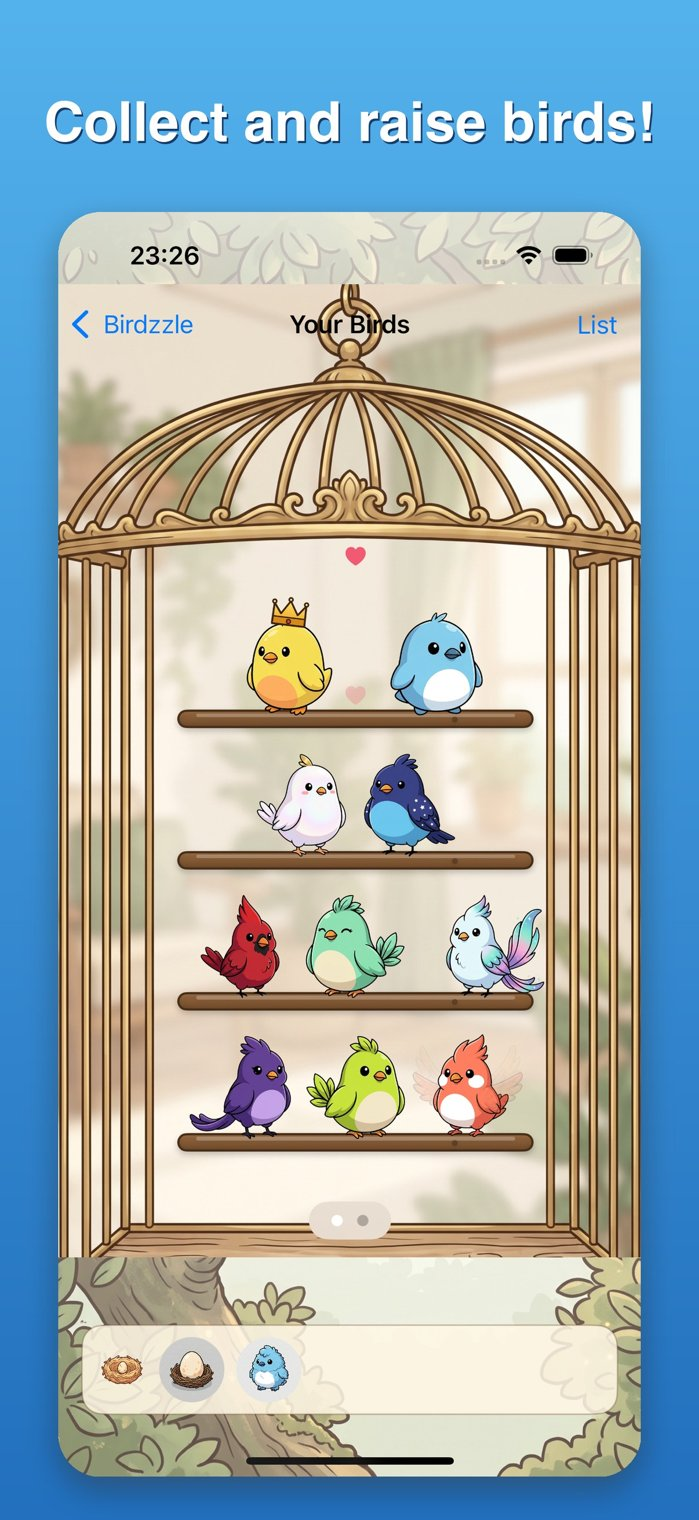
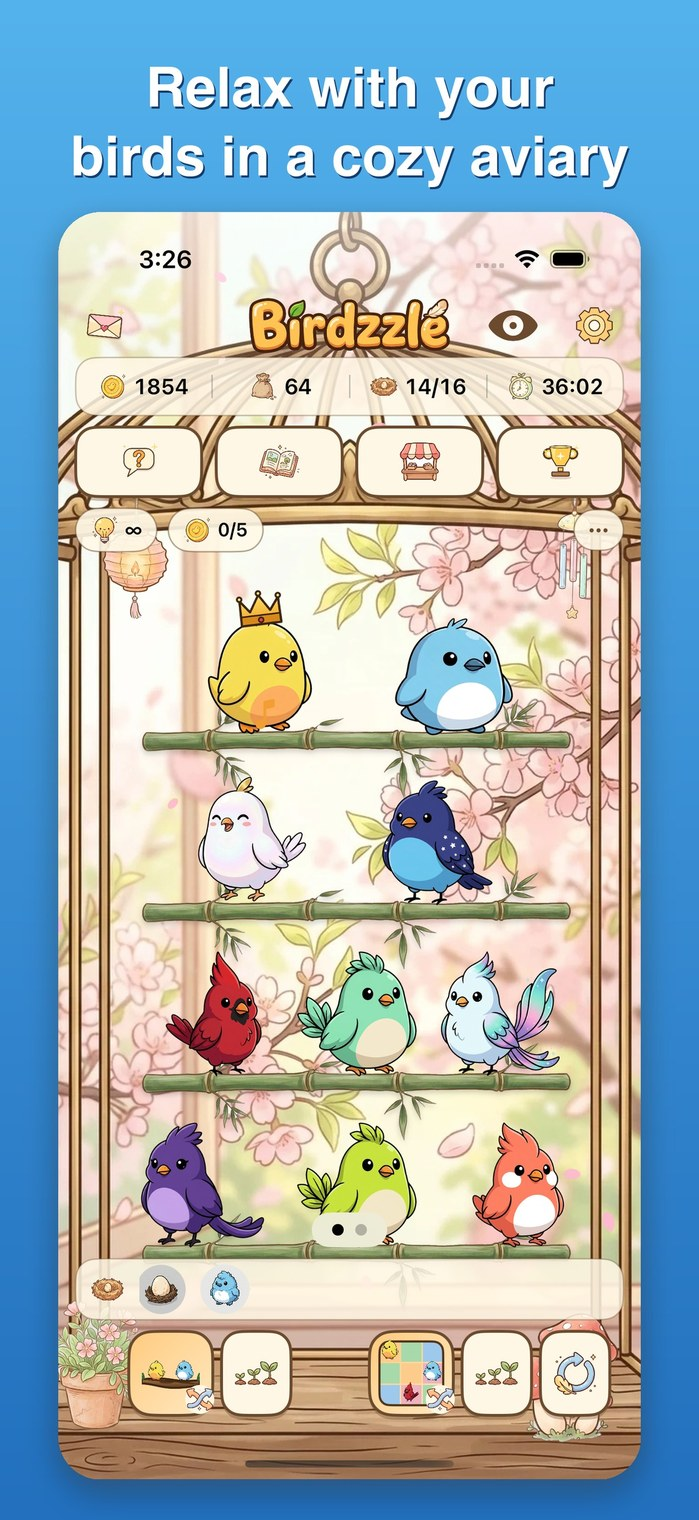
1.8.0の公開に合わせて更新: 変更履歴(1.7.0・1.8.0)、ホームに「とりごや装飾」「とまり木パズル」の紹介を追加、画像を新デザインに差し替え

diff --git a/index.html b/index.html
@@ -32,7 +32,7 @@
 <p><a class="dl" href="https://apps.apple.com/jp/app/id6804975415?ct=site_top">App Storeでダウンロード</a><span class="free">無料・オフラインで遊べます</span><a class="open-app" href="birdzzle://open?src=site_top" data-src="site_top">インストール済みの方はアプリで開く</a></p>
 </section>
 <section class="grid3"><div class='card'><h3>推測ゼロ</h3><p>全問題が一意解で、論理だけで解けることを確認済み。運やあてずっぽうは要りません。</p></div><div class='card'><h3>鳥を育てる</h3><p>クリアで得たコインで卵や鳥を迎え、つがいにして繁殖。新しい種を見つけて図鑑を埋めます。全48種。</p></div><div class='card'><h3>遊びやすい</h3><p>スタミナ制・プレイ回数制限なし。Undo/Redoは無制限・無料。完全オフライン。13言語対応。</p></div></section>
-<section class="feature" id="aviary"><div class="ft"><h2>鳥を迎えて、育てて、増やす「とりごや」</h2><p>パズルをクリアして貯めたコインで卵や鳥を迎え、餌をあげて育てます。卵からひな、成鳥へ。育った鳥は、ときどきパズルのヒントを持ち帰ってくれます。</p><ul><li>ガチャなし。鳥はショップ購入・クリア報酬・繁殖で手に入ります</li><li>つがいにして繁殖。名前もつけられます</li><li>確率はすべて「確率一覧」でいつでも公開</li></ul><p><a class="more" href="zukan/">鳥図鑑を見る &rarr;</a></p></div><div class="fi"><img src="assets/img/features/ja/aviary.jpg" alt="鳥を迎えて、育てて、増やす「とりごや」" loading="lazy"></div></section><section class="feature rev" id="contest"><div class="ft"><h2><span class="badge">NEW</span>毎時間開催の「鳥コンテスト」</h2><p>育てた鳥の声色・毛並み・賢さで競う、1時間ごとのコンテスト。ブロックの中で順位がつき、ほかのプレイヤーの鳥(と、ときどきダミー)と非同期で対戦します。</p><ul><li>鳥ごとに声色・毛並み・賢さを育成。専用アイテムで伸ばせます</li><li>なつきは、とりごやのイベントでカゴをタップし続けるほど上がります(放置では育ちません)</li><li>報酬はゲーム内コインとアイテムの固定額。現金とは無関係です</li></ul><p><a class="more" href="faq.html">よくある質問 &rarr;</a></p></div><div class="fi"><img src="assets/img/features/ja/contest.jpg" alt="毎時間開催の「鳥コンテスト」" loading="lazy"></div></section><section class="feature" id="codex"><div class="ft"><h2>全48種の図鑑を完成させよう</h2><p>ショップで買える鳥はごく一部。ほかの鳥は、つがいの組み合わせで見つかります。図鑑の「狙える」「あと一歩」や「おまかせでつがい」が、次の新種探しを手伝います。</p><ul><li>発見済みの種は図鑑に記録</li><li>未発見の種は、組み合わせのヒントが「かも…?」で見えます</li><li>増えた鳥は「まとめて売る」で整理</li></ul><p><a class="more" href="zukan/">鳥図鑑を見る &rarr;</a></p></div><div class="fi"><img src="assets/img/features/ja/codex.jpg" alt="全48種の図鑑を完成させよう" loading="lazy"></div></section><section class="feature rev" id="puzzle"><div class="ft"><h2>推測ゼロのロジックパズル</h2><p>各行・各列・各なわばりにちょうど1羽、鳥同士は斜めにも隣り合えない。全問が一意解で、論理だけで解けることをソルバーで確認済みです。</p><ul><li>スタミナ制・プレイ回数制限なし</li><li>Undo/Redoは無制限・無料</li><li>完全オフライン、13言語対応</li></ul><p><a class="more" href="guide/">解き方ガイドを読む &rarr;</a></p></div><div class="fi"><img src="assets/img/features/ja/puzzle.jpg" alt="推測ゼロのロジックパズル" loading="lazy"></div></section><section class="feature noimg" id="transparent"><div class="ft"><h2>確率も変更履歴も、すべて公開</h2><p>繁殖・ヒント排出・鳥が元気をなくす確率は、アプリの「確率一覧」でいつでも確認できます。バランスを変えたときは、変更履歴で告知します。</p><ul><li>繁殖・ヒント・コンテストの数値を公開</li><li>変更履歴はこのサイトにも掲載</li></ul><p><a class="more" href="changelog.html">変更履歴を見る &rarr;</a></p></div></section>
+<section class="feature" id="aviary"><div class="ft"><h2>鳥を迎えて、育てて、増やす「とりごや」</h2><p>パズルをクリアして貯めたコインで卵や鳥を迎え、餌をあげて育てます。卵からひな、成鳥へ。育った鳥は、ときどきパズルのヒントを持ち帰ってくれます。</p><ul><li>ガチャなし。鳥はショップ購入・クリア報酬・繁殖で手に入ります</li><li>つがいにして繁殖。名前もつけられます</li><li>確率はすべて「確率一覧」でいつでも公開</li></ul><p><a class="more" href="zukan/">鳥図鑑を見る &rarr;</a></p></div><div class="fi"><img src="assets/img/features/ja/aviary.jpg" alt="鳥を迎えて、育てて、増やす「とりごや」" loading="lazy"></div></section><section class="feature rev" id="healing"><div class="ft"><h2><span class="badge">NEW</span>とりごやを飾って、鳥となかよし</h2><p>季節の背景・とまり木・小物で、とりごやを自分好みに飾れます。鳥をなでたり、羽づくろいをしたり、歌をまねたり。ホームのBGMも選べて、のんびり癒されます。</p><ul><li>小物は、ショップで好きなものを定価で購入(抽選はありません)</li><li>あそぶほどなつきが上がります(1回のイベントに1羽1回まで)</li><li>ホームのBGMは、通常の曲・森・雨・せせらぎから選べます</li><li>ゆっくり遊びたい日は、タイマーなし・ミスなしの「のんびりモード」</li></ul></div><div class="fi"><img src="assets/img/features/ja/healing.jpg" alt="とりごやを飾って、鳥となかよし" loading="lazy"></div></section><section class="feature" id="contest"><div class="ft"><h2><span class="badge">NEW</span>毎時間開催の「鳥コンテスト」</h2><p>育てた鳥の声色・毛並み・賢さで競う、1時間ごとのコンテスト。ブロックの中で順位がつき、ほかのプレイヤーの鳥(と、ときどきダミー)と非同期で対戦します。</p><ul><li>鳥ごとに声色・毛並み・賢さを育成。専用アイテムで伸ばせます</li><li>なつきは、とりごやのイベントでカゴをタップし続けるほど上がります(放置では育ちません)</li><li>報酬はゲーム内コインとアイテムの固定額。現金とは無関係です</li></ul><p><a class="more" href="faq.html">よくある質問 &rarr;</a></p></div><div class="fi"><img src="assets/img/features/ja/contest.jpg" alt="毎時間開催の「鳥コンテスト」" loading="lazy"></div></section><section class="feature rev" id="codex"><div class="ft"><h2>全48種の図鑑を完成させよう</h2><p>ショップで買える鳥はごく一部。ほかの鳥は、つがいの組み合わせで見つかります。図鑑の「狙える」「あと一歩」や「おまかせでつがい」が、次の新種探しを手伝います。</p><ul><li>発見済みの種は図鑑に記録</li><li>未発見の種は、組み合わせのヒントが「かも…?」で見えます</li><li>増えた鳥は「まとめて売る」で整理</li></ul><p><a class="more" href="zukan/">鳥図鑑を見る &rarr;</a></p></div><div class="fi"><img src="assets/img/features/ja/codex.jpg" alt="全48種の図鑑を完成させよう" loading="lazy"></div></section><section class="feature" id="sort"><div class="ft"><h2>鳥を仕分ける「とまり木パズル」</h2><p>とまり木に並んだ鳥を、同じ種類ごとに集めるパズル。移せるのは、一番上に並んだ同じ種類のまとまりだけ。全問がソルバーで「必ず解ける」ことを確認済みで、運に左右されません。</p><ul><li>ミスの回数制限はありません</li><li>Undo/Redo/最初からは無制限・無料</li><li>やさしいから達人まで4段階</li></ul></div><div class="fi"><img src="assets/img/features/ja/sort.jpg" alt="鳥を仕分ける「とまり木パズル」" loading="lazy"></div></section><section class="feature rev" id="puzzle"><div class="ft"><h2>推測ゼロのロジックパズル</h2><p>各行・各列・各なわばりにちょうど1羽、鳥同士は斜めにも隣り合えない。全問が一意解で、論理だけで解けることをソルバーで確認済みです。</p><ul><li>スタミナ制・プレイ回数制限なし</li><li>Undo/Redoは無制限・無料</li><li>完全オフライン、13言語対応</li></ul><p><a class="more" href="guide/">解き方ガイドを読む &rarr;</a></p></div><div class="fi"><img src="assets/img/features/ja/puzzle.jpg" alt="推測ゼロのロジックパズル" loading="lazy"></div></section><section class="feature noimg" id="transparent"><div class="ft"><h2>確率も変更履歴も、すべて公開</h2><p>繁殖・ヒント排出・鳥が元気をなくす確率は、アプリの「確率一覧」でいつでも確認できます。バランスを変えたときは、変更履歴で告知します。</p><ul><li>繁殖・ヒント・コンテストの数値を公開</li><li>変更履歴はこのサイトにも掲載</li></ul><p><a class="more" href="changelog.html">変更履歴を見る &rarr;</a></p></div></section>
 <section><h2>ルール</h2><ul class="rules"><li>各行にちょうど1羽</li><li>各列にちょうど1羽</li><li>各なわばり(色の領域)にちょうど1羽</li><li>鳥同士は上下左右・斜めに隣り合えない</li></ul>
 <p><a class="more" href="guide/">解き方ガイドを読む &rarr;</a></p></section>
 <section><h2>鳥図鑑</h2><ul class="birds"><li><a href="zukan/sunny.html"><img src="assets/img/birds/sunny.png" alt="Sunny" width="96" height="96" loading="lazy"><span>Sunny</span></a></li><li><a href="zukan/bell.html"><img src="assets/img/birds/bell.png" alt="Bell" width="96" height="96" loading="lazy"><span>Bell</span></a></li><li><a href="zukan/ruby.html"><img src="assets/img/birds/ruby.png" alt="Ruby" width="96" height="96" loading="lazy"><span>Ruby</span></a></li><li><a href="zukan/pearl.html"><img src="assets/img/birds/pearl.png" alt="Pearl" width="96" height="96" loading="lazy"><span>Pearl</span></a></li><li><a href="zukan/mint.html"><img src="assets/img/birds/mint.png" alt="Mint" width="96" height="96" loading="lazy"><span>Mint</span></a></li><li><a href="zukan/amber.html"><img src="assets/img/birds/amber.png" alt="Amber" width="96" height="96" loading="lazy"><span>Amber</span></a></li><li><a href="zukan/indigo.html"><img src="assets/img/birds/indigo.png" alt="Indigo" width="96" height="96" loading="lazy"><span>Indigo</span></a></li><li><a href="zukan/violet.html"><img src="assets/img/birds/violet.png" alt="Violet" width="96" height="96" loading="lazy"><span>Violet</span></a></li><li><a href="zukan/coral.html"><img src="assets/img/birds/coral.png" alt="Coral" width="96" height="96" loading="lazy"><span>Coral</span></a></li><li><a href="zukan/aurora.html"><img src="assets/img/birds/aurora.png" alt="Aurora" width="96" height="96" loading="lazy"><span>Aurora</span></a></li><li><a href="zukan/cream.html"><img src="assets/img/birds/cream.png" alt="Cream" width="96" height="96" loading="lazy"><span>Cream</span></a></li><li><a href="zukan/lime.html"><img src="assets/img/birds/lime.png" alt="Lime" width="96" height="96" loading="lazy"><span>Lime</span></a></li></ul>

diff --git a/en/index.html b/en/index.html
@@ -32,7 +32,7 @@
 <p><a class="dl" href="https://apps.apple.com/us/app/id6804975415?ct=site_top">Download on the App Store</a><span class="free">Free. Plays fully offline.</span><a class="open-app" href="birdzzle://open?src=site_top" data-src="site_top">Already installed? Open in the app</a></p>
 </section>
 <section class="grid3"><div class='card'><h3>Zero guessing</h3><p>Every puzzle has a unique solution and is verified to be solvable by logic alone.</p></div><div class='card'><h3>Raise birds</h3><p>Spend the coins you earn to welcome eggs and birds, pair them up and breed new species. 48 species in all.</p></div><div class='card'><h3>Easy to play</h3><p>No stamina or play limits. Unlimited free Undo/Redo. Fully offline. 13 languages.</p></div></section>
-<section class="feature" id="aviary"><div class="ft"><h2>Welcome, raise and breed birds in your aviary</h2><p>Spend the coins you earn from puzzles to welcome eggs and birds, feed them and watch them grow. Grown birds sometimes bring back a puzzle hint.</p><ul><li>No gacha: birds come from the shop, clear rewards and breeding</li><li>Pair them up to breed, and give them names</li><li>Every probability is public in the in-app list</li></ul><p><a class="more" href="zukan/">See the bird guide &rarr;</a></p></div><div class="fi"><img src="../assets/img/features/en/aviary.jpg" alt="Welcome, raise and breed birds in your aviary" loading="lazy"></div></section><section class="feature rev" id="contest"><div class="ft"><h2><span class="badge">NEW</span>A new Bird Contest every hour</h2><p>Compete every hour with the voice, coat and wits of the birds you raised. You are ranked within a block against other players&#x27; birds (and sometimes dummies), asynchronously.</p><ul><li>Train each bird&#x27;s voice, coat and wits with dedicated items</li><li>Affection rises when you keep tapping the cage during aviary events (it does not grow while you are away)</li><li>Rewards are fixed amounts of in-game coins and items, unrelated to real money</li></ul><p><a class="more" href="faq.html">FAQ &rarr;</a></p></div><div class="fi"><img src="../assets/img/features/en/contest.jpg" alt="A new Bird Contest every hour" loading="lazy"></div></section><section class="feature" id="codex"><div class="ft"><h2>Complete the 48-species bird guide</h2><p>Only a few birds are sold in the shop. The rest are discovered by pairing birds. “Reachable”, “One step away” and “Auto pair” help you find the next new species.</p><ul><li>Discovered species are recorded in the guide</li><li>Hints for undiscovered species appear as “maybe…?”</li><li>Tidy up with “Sell in bulk”</li></ul><p><a class="more" href="zukan/">See the bird guide &rarr;</a></p></div><div class="fi"><img src="../assets/img/features/en/codex.jpg" alt="Complete the 48-species bird guide" loading="lazy"></div></section><section class="feature rev" id="puzzle"><div class="ft"><h2>Logic puzzles with zero guessing</h2><p>Exactly one bird in every row, column and territory, and no two birds touch, even diagonally. Every puzzle has a unique solution verified to be solvable by logic alone.</p><ul><li>No stamina or play limits</li><li>Unlimited free Undo/Redo</li><li>Fully offline, 13 languages</li></ul><p><a class="more" href="guide/">Read the solving guide &rarr;</a></p></div><div class="fi"><img src="../assets/img/features/en/puzzle.jpg" alt="Logic puzzles with zero guessing" loading="lazy"></div></section><section class="feature noimg" id="transparent"><div class="ft"><h2>Probabilities and changes, all public</h2><p>The odds for breeding, hint payouts and birds losing their spirits are always available in the app&#x27;s probability list. Balance changes are announced in the changelog.</p><ul><li>Breeding, hint and contest values are public</li><li>The full changelog is also on this site</li></ul><p><a class="more" href="changelog.html">See the changelog &rarr;</a></p></div></section>
+<section class="feature" id="aviary"><div class="ft"><h2>Welcome, raise and breed birds in your aviary</h2><p>Spend the coins you earn from puzzles to welcome eggs and birds, feed them and watch them grow. Grown birds sometimes bring back a puzzle hint.</p><ul><li>No gacha: birds come from the shop, clear rewards and breeding</li><li>Pair them up to breed, and give them names</li><li>Every probability is public in the in-app list</li></ul><p><a class="more" href="zukan/">See the bird guide &rarr;</a></p></div><div class="fi"><img src="../assets/img/features/en/aviary.jpg" alt="Welcome, raise and breed birds in your aviary" loading="lazy"></div></section><section class="feature rev" id="healing"><div class="ft"><h2><span class="badge">NEW</span>Decorate your aviary and bond with your birds</h2><p>Decorate your aviary with seasonal backdrops, perches and small items. Pet your birds, groom them, copy their songs, and pick the home music to unwind.</p><ul><li>Items are bought at fixed prices in the shop (no random draws)</li><li>The more you play, the closer you get (once per bird per event)</li><li>Choose the home music: standard tune, forest, rain or stream</li><li>On easy days, use Relaxed Mode: no timer and no mistakes</li></ul></div><div class="fi"><img src="../assets/img/features/en/healing.jpg" alt="Decorate your aviary and bond with your birds" loading="lazy"></div></section><section class="feature" id="contest"><div class="ft"><h2><span class="badge">NEW</span>A new Bird Contest every hour</h2><p>Compete every hour with the voice, coat and wits of the birds you raised. You are ranked within a block against other players&#x27; birds (and sometimes dummies), asynchronously.</p><ul><li>Train each bird&#x27;s voice, coat and wits with dedicated items</li><li>Affection rises when you keep tapping the cage during aviary events (it does not grow while you are away)</li><li>Rewards are fixed amounts of in-game coins and items, unrelated to real money</li></ul><p><a class="more" href="faq.html">FAQ &rarr;</a></p></div><div class="fi"><img src="../assets/img/features/en/contest.jpg" alt="A new Bird Contest every hour" loading="lazy"></div></section><section class="feature rev" id="codex"><div class="ft"><h2>Complete the 48-species bird guide</h2><p>Only a few birds are sold in the shop. The rest are discovered by pairing birds. “Reachable”, “One step away” and “Auto pair” help you find the next new species.</p><ul><li>Discovered species are recorded in the guide</li><li>Hints for undiscovered species appear as “maybe…?”</li><li>Tidy up with “Sell in bulk”</li></ul><p><a class="more" href="zukan/">See the bird guide &rarr;</a></p></div><div class="fi"><img src="../assets/img/features/en/codex.jpg" alt="Complete the 48-species bird guide" loading="lazy"></div></section><section class="feature" id="sort"><div class="ft"><h2>Perch Puzzle: sort the birds</h2><p>Gather birds of the same kind on each perch. You can only move the top group of matching birds. Every puzzle is verified solvable by a solver, so luck never decides it.</p><ul><li>No mistake limit</li><li>Unlimited free Undo/Redo/Restart</li><li>Four levels, from Easy to Expert</li></ul></div><div class="fi"><img src="../assets/img/features/en/sort.jpg" alt="Perch Puzzle: sort the birds" loading="lazy"></div></section><section class="feature rev" id="puzzle"><div class="ft"><h2>Logic puzzles with zero guessing</h2><p>Exactly one bird in every row, column and territory, and no two birds touch, even diagonally. Every puzzle has a unique solution verified to be solvable by logic alone.</p><ul><li>No stamina or play limits</li><li>Unlimited free Undo/Redo</li><li>Fully offline, 13 languages</li></ul><p><a class="more" href="guide/">Read the solving guide &rarr;</a></p></div><div class="fi"><img src="../assets/img/features/en/puzzle.jpg" alt="Logic puzzles with zero guessing" loading="lazy"></div></section><section class="feature noimg" id="transparent"><div class="ft"><h2>Probabilities and changes, all public</h2><p>The odds for breeding, hint payouts and birds losing their spirits are always available in the app&#x27;s probability list. Balance changes are announced in the changelog.</p><ul><li>Breeding, hint and contest values are public</li><li>The full changelog is also on this site</li></ul><p><a class="more" href="changelog.html">See the changelog &rarr;</a></p></div></section>
 <section><h2>Rules</h2><ul class="rules"><li>Exactly one bird in each row</li><li>Exactly one bird in each column</li><li>Exactly one bird in each territory (colored region)</li><li>Birds can never touch, even diagonally</li></ul>
 <p><a class="more" href="guide/">Read the solving guide &rarr;</a></p></section>
 <section><h2>Bird guide</h2><ul class="birds"><li><a href="zukan/sunny.html"><img src="../assets/img/birds/sunny.png" alt="Sunny" width="96" height="96" loading="lazy"><span>Sunny</span></a></li><li><a href="zukan/bell.html"><img src="../assets/img/birds/bell.png" alt="Bell" width="96" height="96" loading="lazy"><span>Bell</span></a></li><li><a href="zukan/ruby.html"><img src="../assets/img/birds/ruby.png" alt="Ruby" width="96" height="96" loading="lazy"><span>Ruby</span></a></li><li><a href="zukan/pearl.html"><img src="../assets/img/birds/pearl.png" alt="Pearl" width="96" height="96" loading="lazy"><span>Pearl</span></a></li><li><a href="zukan/mint.html"><img src="../assets/img/birds/mint.png" alt="Mint" width="96" height="96" loading="lazy"><span>Mint</span></a></li><li><a href="zukan/amber.html"><img src="../assets/img/birds/amber.png" alt="Amber" width="96" height="96" loading="lazy"><span>Amber</span></a></li><li><a href="zukan/indigo.html"><img src="../assets/img/birds/indigo.png" alt="Indigo" width="96" height="96" loading="lazy"><span>Indigo</span></a></li><li><a href="zukan/violet.html"><img src="../assets/img/birds/violet.png" alt="Violet" width="96" height="96" loading="lazy"><span>Violet</span></a></li><li><a href="zukan/coral.html"><img src="../assets/img/birds/coral.png" alt="Coral" width="96" height="96" loading="lazy"><span>Coral</span></a></li><li><a href="zukan/aurora.html"><img src="../assets/img/birds/aurora.png" alt="Aurora" width="96" height="96" loading="lazy"><span>Aurora</span></a></li><li><a href="zukan/cream.html"><img src="../assets/img/birds/cream.png" alt="Cream" width="96" height="96" loading="lazy"><span>Cream</span></a></li><li><a href="zukan/lime.html"><img src="../assets/img/birds/lime.png" alt="Lime" width="96" height="96" loading="lazy"><span>Lime</span></a></li></ul>

diff --git a/changelog.html b/changelog.html
@@ -24,7 +24,7 @@
 <nav><a href="">ホーム</a><a href="guide/">解き方ガイド</a><a href="zukan/">鳥図鑑</a><a href="faq.html">よくある質問</a><a href="changelog.html">変更履歴</a><a href="press.html">プレスキット</a><a class="lang" href="en/changelog.html">English</a></nav>
 </div></header>
 <main class="wrap">
-<article><h1>確率・経済の変更履歴</h1><p class='lead'>鳥育成機能の確率や報酬・費用などの数値を変更したときに、その内容を公開します。現在の確率はアプリ内の「確率一覧」で確認できます。</p><section><h2>v1.6.0</h2><p>鳥のパラメータ(声色・毛並み・賢さ・なつき)を追加しました。子の成長限界は親2羽の限界の平均に-10〜+10点の乱数を足して決まります。育成アイテムは1個100コインで5点伸びます。鳥の巣立ちを廃止し、成鳥が元気をなくす仕組みに変更しました(確率は従来の巣立ちと同じです)。元気がない鳥は卵を産まず、ヒントも持ち帰りません。ショップの薬(1個60コイン)で回復できます。1時間ごとに開催する鳥コンテストを追加しました。報酬は順位とブロンズ・シルバー・ゴールドの帯で決まる固定額のコインです。審査の採点には、審査員ごとに±の乱数が加わります(詳細は確率一覧のコンテストの項目を参照)。</p></section><section><h2>v1.5.0</h2><p>餌パックの価格を40→20コインに、鳥の売却価格の割引を定価×60%→50%に変更しました。パズルをクリアするたびに、飼育中の成鳥1羽につき10コインが上乗せされるようになりました。デイリークエストの報酬を、500コインから1,500コインまで段階的に増える形に変更しました(100回まで)。アプリを閉じている間のイベントも、再開時に最大72回(3日分)までまとめて処理するようになりました。</p></section><section><h2>v1.4.0</h2><p>パズルクリア報酬をやさしい75・ふつう125・むずかしい200・達人300コインに引き上げ、ヒントを使わずにクリアした場合のボーナスコインを追加しました。デイリークエストの報酬を、5回クリアごとに1,000コイン(100回まで)に変更しました。餌の消費量をひな1・成鳥2に倍増しました。巣スロットの拡張費用を何個目でも30コインに固定しました。</p></section><section><h2>v1.3.0</h2><p>特定の種の組み合わせのつがいから雛が誕生するとき、30%の確率で新しい種が生まれるようになりました(外れた場合は親のどちらかの種が50%ずつ)。広告視聴での時間短縮を廃止し、パズルのクリア失敗時もクリア時と同じだけ次回イベントまでの時間が短縮されるようにしました。</p></section><section><h2>v1.2.0</h2><p>その日のパズルクリア回数に応じたコイン報酬(デイリークエスト)を追加しました。</p></section><section><h2>v1.0.3</h2><p>巣立つ確率を1%→5%、ヒントを持ち帰る確率を3%→10%、雛が誕生する確率を2%→20%に引き上げました。また、餌が3回連続で切れた状態が続くと、成鳥が巣立つ確率が20%に上昇するようになりました。</p></section><section><h2>v1.0.2</h2><p>成長・巣立ち・繁殖・ヒント排出・餌消費を1時間ごとの共通イベントに統合しました。パズルクリア・広告視聴での時間短縮に対応しました。</p></section><section><h2>v1.0.1</h2><p>鳥育成機能をリリースし、確率一覧を初めて公開しました。</p></section></article>
+<article><h1>確率・経済の変更履歴</h1><p class='lead'>鳥育成機能の確率や報酬・費用などの数値を変更したときに、その内容を公開します。現在の確率はアプリ内の「確率一覧」で確認できます。</p><section><h2>v1.8.0</h2><p>子の成長限界を「親2羽の限界の平均+5〜10点(下振れなし)」に変更し、成長限界とパラメータの上限(100)をなくしました。世代を重ねるほど限界が伸び続けます(個体ごとの限界を超えては育ちません)。これに合わせてコンテストの採点を、評価値に比例して上限なく伸びる式に変更しました。合計点は100点で頭打ちにならず、100点を超えます(評価値65で合計50点、2倍なら100点、4倍なら200点。詳細はガイドのコンテストの項目を参照)。鳥と遊ぶ「あそぶ」を追加しました。遊ぶとなつきが10点加わります(1回のイベントに1羽1回まで。タップ・餌とは別に加算されるため、1回のイベントで最大40点)。あそびでは声色・毛並み・賢さの値は増えません。とりごやの模様替え(季節の背景300コイン・とまり木150コイン・小物100コイン)を、定価で買えるようにしました(抽選はありません)。模様替えはとりごや(鳥カゴの1ページ)ごとに設定でき、小物は同じものを何個でも(1個100コイン)買って好きな場所に置けます(置ける数は持っている数まで)。小物は9種類に増えました。</p></section><section><h2>v1.7.0</h2><p>鳥に餌を直接あげられるようになりました。あげるとタップの10点とは別に、なつきが20点加わります(1回のイベントで最大30点。餌1個を消費、1回のイベントにつき1羽1回まで)。新しいパズル「とまり木パズル」を追加しました。クリア報酬・デイリークエストの回数・鳥の種の解禁は、なわばりパズルと共通です。パズルのクリア画面で広告を見ると、その回の獲得コインが5倍になるようにしました(1問につき1回)。成鳥が元気をなくす確率を5%→2%に、成鳥がヒントを持ち帰る確率を10%→3%に引き下げました。</p></section><section><h2>v1.6.0</h2><p>鳥のパラメータ(声色・毛並み・賢さ・なつき)を追加しました。子の成長限界は親2羽の限界の平均に-10〜+10点の乱数を足して決まります。育成アイテムは1個100コインで5点伸びます。鳥の巣立ちを廃止し、成鳥が元気をなくす仕組みに変更しました(確率は従来の巣立ちと同じです)。元気がない鳥は卵を産まず、ヒントも持ち帰りません。ショップの薬(1個60コイン)で回復できます。1時間ごとに開催する鳥コンテストを追加しました。報酬は順位とブロンズ・シルバー・ゴールドの帯で決まる固定額のコインです。審査の採点には、審査員ごとに±の乱数が加わります(詳細は確率一覧のコンテストの項目を参照)。</p></section><section><h2>v1.5.0</h2><p>餌パックの価格を40→20コインに、鳥の売却価格の割引を定価×60%→50%に変更しました。パズルをクリアするたびに、飼育中の成鳥1羽につき10コインが上乗せされるようになりました。デイリークエストの報酬を、500コインから1,500コインまで段階的に増える形に変更しました(100回まで)。アプリを閉じている間のイベントも、再開時に最大72回(3日分)までまとめて処理するようになりました。</p></section><section><h2>v1.4.0</h2><p>パズルクリア報酬をやさしい75・ふつう125・むずかしい200・達人300コインに引き上げ、ヒントを使わずにクリアした場合のボーナスコインを追加しました。デイリークエストの報酬を、5回クリアごとに1,000コイン(100回まで)に変更しました。餌の消費量をひな1・成鳥2に倍増しました。巣スロットの拡張費用を何個目でも30コインに固定しました。</p></section><section><h2>v1.3.0</h2><p>特定の種の組み合わせのつがいから雛が誕生するとき、30%の確率で新しい種が生まれるようになりました(外れた場合は親のどちらかの種が50%ずつ)。広告視聴での時間短縮を廃止し、パズルのクリア失敗時もクリア時と同じだけ次回イベントまでの時間が短縮されるようにしました。</p></section><section><h2>v1.2.0</h2><p>その日のパズルクリア回数に応じたコイン報酬(デイリークエスト)を追加しました。</p></section><section><h2>v1.0.3</h2><p>巣立つ確率を1%→5%、ヒントを持ち帰る確率を3%→10%、雛が誕生する確率を2%→20%に引き上げました。また、餌が3回連続で切れた状態が続くと、成鳥が巣立つ確率が20%に上昇するようになりました。</p></section><section><h2>v1.0.2</h2><p>成長・巣立ち・繁殖・ヒント排出・餌消費を1時間ごとの共通イベントに統合しました。パズルクリア・広告視聴での時間短縮に対応しました。</p></section><section><h2>v1.0.1</h2><p>鳥育成機能をリリースし、確率一覧を初めて公開しました。</p></section></article>
 </main>
 <div id="consent" class="consent" hidden role="dialog" aria-live="polite"><p>サイトの改善のため、アクセス解析(Googleアナリティクス)を使ってもよいですか?同意しなくても、サイトはそのままご利用いただけます。 <a href="privacy.html">プライバシーポリシー</a></p><p class="consent-btns"><button type="button" data-consent="granted">同意する</button><button type="button" data-consent="denied">同意しない</button></p></div>
 <footer><div class="wrap"><p><a href="privacy.html">プライバシーポリシー</a> / <a href="terms.html">利用規約</a> / <a href="support.html">サポート・お問い合わせ</a></p><p>&copy; 2026 Haruyoshi Nagafune. Birdzzle is an original game; all birds are fictional illustrations.</p></div></footer>

diff --git a/en/changelog.html b/en/changelog.html
@@ -24,7 +24,7 @@
 <nav><a href="">Home</a><a href="guide/">Solving guide</a><a href="zukan/">Bird guide</a><a href="faq.html">FAQ</a><a href="changelog.html">Changelog</a><a href="press.html">Press kit</a><a class="lang" href="../changelog.html">日本語</a></nav>
 </div></header>
 <main class="wrap">
-<article><h1>Probability & economy changelog</h1><p class='lead'>Whenever we change the probabilities, rewards or costs of bird raising, the change is listed here. Current values are always shown in the in-app Probability screen.</p><section><h2>v1.6.0</h2><p>鳥のパラメータ(声色・毛並み・賢さ・なつき)を追加しました。子の成長限界は親2羽の限界の平均に-10〜+10点の乱数を足して決まります。育成アイテムは1個100コインで5点伸びます。鳥の巣立ちを廃止し、成鳥が元気をなくす仕組みに変更しました(確率は従来の巣立ちと同じです)。元気がない鳥は卵を産まず、ヒントも持ち帰りません。ショップの薬(1個60コイン)で回復できます。1時間ごとに開催する鳥コンテストを追加しました。報酬は順位とブロンズ・シルバー・ゴールドの帯で決まる固定額のコインです。審査の採点には、審査員ごとに±の乱数が加わります(詳細は確率一覧のコンテストの項目を参照)。</p></section><section><h2>v1.5.0</h2><p>The feed pack price changed from 40 to 20 coins, and the selling discount from 60% to 50% of list price. Each time you clear a puzzle, 10 coins are now added for every adult bird you keep. Daily quest rewards now increase in steps from 500 to 1,500 coins (up to 100 clears). Events that happen while the app is closed are now processed in one go when you return, up to 72 events (3 days&#x27; worth).</p></section><section><h2>v1.4.0</h2><p>Raised puzzle clear rewards to Easy 75 / Normal 125 / Hard 200 / Expert 300 coins, and added bonus coins for clearing without hints. Changed the daily quest reward to 1,000 coins for every 5 clears (up to 100). Doubled feed consumption to 1 for chicks and 2 for adults. Fixed the nest slot expansion cost at 30 coins regardless of how many you have.</p></section><section><h2>v1.3.0</h2><p>When a chick hatches from a pair of certain species, there is now a 30% chance of a new species (otherwise one of the parents&#x27; species, 50% each). Removed time reduction by watching ads; failing a puzzle now shortens the time to the next event just like clearing one.</p></section><section><h2>v1.2.0</h2><p>Added coin rewards based on how many puzzles you clear that day (daily quest).</p></section><section><h2>v1.0.3</h2><p>Raised the fledging chance from 1% to 5%, the hint-bringing chance from 3% to 10%, and the chick-hatching chance from 2% to 20%. Also, if feed runs out 3 times in a row, adults&#x27; chance to fledge rises to 20%.</p></section><section><h2>v1.0.2</h2><p>Merged growth, fledging, breeding, hint payouts and feed consumption into one shared hourly event. Added time reduction from clearing puzzles and watching ads.</p></section><section><h2>v1.0.1</h2><p>Released the bird-raising feature and published the probability list for the first time.</p></section></article>
+<article><h1>Probability & economy changelog</h1><p class='lead'>Whenever we change the probabilities, rewards or costs of bird raising, the change is listed here. Current values are always shown in the in-app Probability screen.</p><section><h2>v1.8.0</h2><p>子の成長限界を「親2羽の限界の平均+5〜10点(下振れなし)」に変更し、成長限界とパラメータの上限(100)をなくしました。世代を重ねるほど限界が伸び続けます(個体ごとの限界を超えては育ちません)。これに合わせてコンテストの採点を、評価値に比例して上限なく伸びる式に変更しました。合計点は100点で頭打ちにならず、100点を超えます(評価値65で合計50点、2倍なら100点、4倍なら200点。詳細はガイドのコンテストの項目を参照)。鳥と遊ぶ「あそぶ」を追加しました。遊ぶとなつきが10点加わります(1回のイベントに1羽1回まで。タップ・餌とは別に加算されるため、1回のイベントで最大40点)。あそびでは声色・毛並み・賢さの値は増えません。とりごやの模様替え(季節の背景300コイン・とまり木150コイン・小物100コイン)を、定価で買えるようにしました(抽選はありません)。模様替えはとりごや(鳥カゴの1ページ)ごとに設定でき、小物は同じものを何個でも(1個100コイン)買って好きな場所に置けます(置ける数は持っている数まで)。小物は9種類に増えました。</p></section><section><h2>v1.7.0</h2><p>鳥に餌を直接あげられるようになりました。あげるとタップの10点とは別に、なつきが20点加わります(1回のイベントで最大30点。餌1個を消費、1回のイベントにつき1羽1回まで)。新しいパズル「とまり木パズル」を追加しました。クリア報酬・デイリークエストの回数・鳥の種の解禁は、なわばりパズルと共通です。パズルのクリア画面で広告を見ると、その回の獲得コインが5倍になるようにしました(1問につき1回)。成鳥が元気をなくす確率を5%→2%に、成鳥がヒントを持ち帰る確率を10%→3%に引き下げました。</p></section><section><h2>v1.6.0</h2><p>鳥のパラメータ(声色・毛並み・賢さ・なつき)を追加しました。子の成長限界は親2羽の限界の平均に-10〜+10点の乱数を足して決まります。育成アイテムは1個100コインで5点伸びます。鳥の巣立ちを廃止し、成鳥が元気をなくす仕組みに変更しました(確率は従来の巣立ちと同じです)。元気がない鳥は卵を産まず、ヒントも持ち帰りません。ショップの薬(1個60コイン)で回復できます。1時間ごとに開催する鳥コンテストを追加しました。報酬は順位とブロンズ・シルバー・ゴールドの帯で決まる固定額のコインです。審査の採点には、審査員ごとに±の乱数が加わります(詳細は確率一覧のコンテストの項目を参照)。</p></section><section><h2>v1.5.0</h2><p>The feed pack price changed from 40 to 20 coins, and the selling discount from 60% to 50% of list price. Each time you clear a puzzle, 10 coins are now added for every adult bird you keep. Daily quest rewards now increase in steps from 500 to 1,500 coins (up to 100 clears). Events that happen while the app is closed are now processed in one go when you return, up to 72 events (3 days&#x27; worth).</p></section><section><h2>v1.4.0</h2><p>Raised puzzle clear rewards to Easy 75 / Normal 125 / Hard 200 / Expert 300 coins, and added bonus coins for clearing without hints. Changed the daily quest reward to 1,000 coins for every 5 clears (up to 100). Doubled feed consumption to 1 for chicks and 2 for adults. Fixed the nest slot expansion cost at 30 coins regardless of how many you have.</p></section><section><h2>v1.3.0</h2><p>When a chick hatches from a pair of certain species, there is now a 30% chance of a new species (otherwise one of the parents&#x27; species, 50% each). Removed time reduction by watching ads; failing a puzzle now shortens the time to the next event just like clearing one.</p></section><section><h2>v1.2.0</h2><p>Added coin rewards based on how many puzzles you clear that day (daily quest).</p></section><section><h2>v1.0.3</h2><p>Raised the fledging chance from 1% to 5%, the hint-bringing chance from 3% to 10%, and the chick-hatching chance from 2% to 20%. Also, if feed runs out 3 times in a row, adults&#x27; chance to fledge rises to 20%.</p></section><section><h2>v1.0.2</h2><p>Merged growth, fledging, breeding, hint payouts and feed consumption into one shared hourly event. Added time reduction from clearing puzzles and watching ads.</p></section><section><h2>v1.0.1</h2><p>Released the bird-raising feature and published the probability list for the first time.</p></section></article>
 </main>
 <div id="consent" class="consent" hidden role="dialog" aria-live="polite"><p>May we use analytics (Google Analytics) to improve this site? You can use the site either way. <a href="../privacy.html">Privacy Policy</a></p><p class="consent-btns"><button type="button" data-consent="granted">Accept</button><button type="button" data-consent="denied">Decline</button></p></div>
 <footer><div class="wrap"><p><a href="../privacy.html">Privacy Policy</a> / <a href="../terms.html">Terms</a> / <a href="../support.html">Support</a></p><p>&copy; 2026 Haruyoshi Nagafune. Birdzzle is an original game; all birds are fictional illustrations.</p></div></footer>
